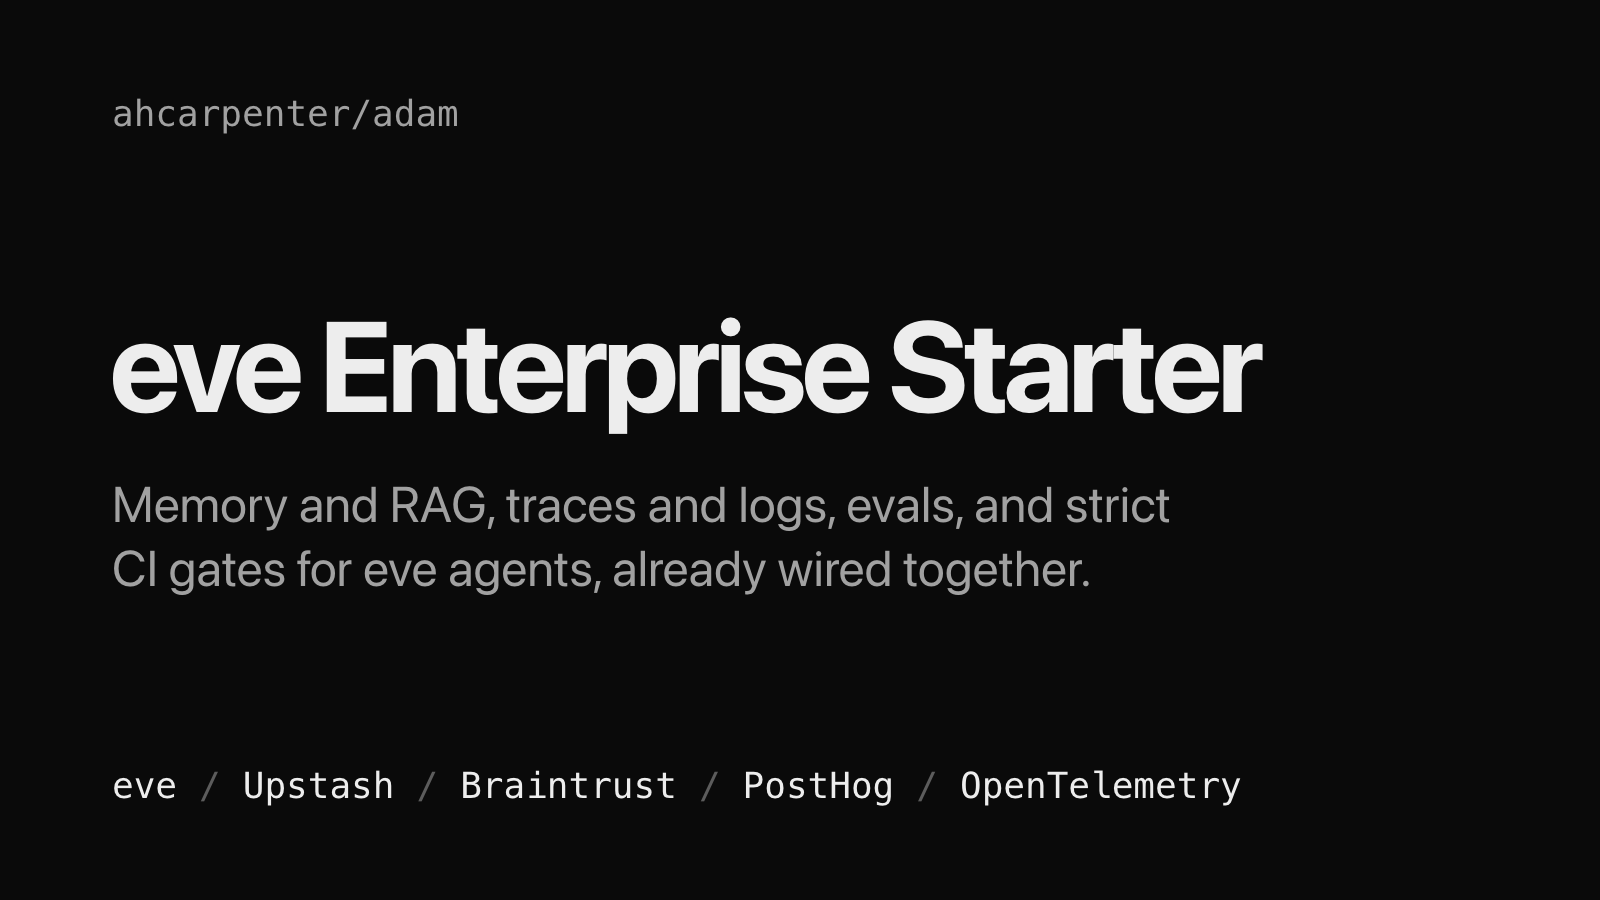
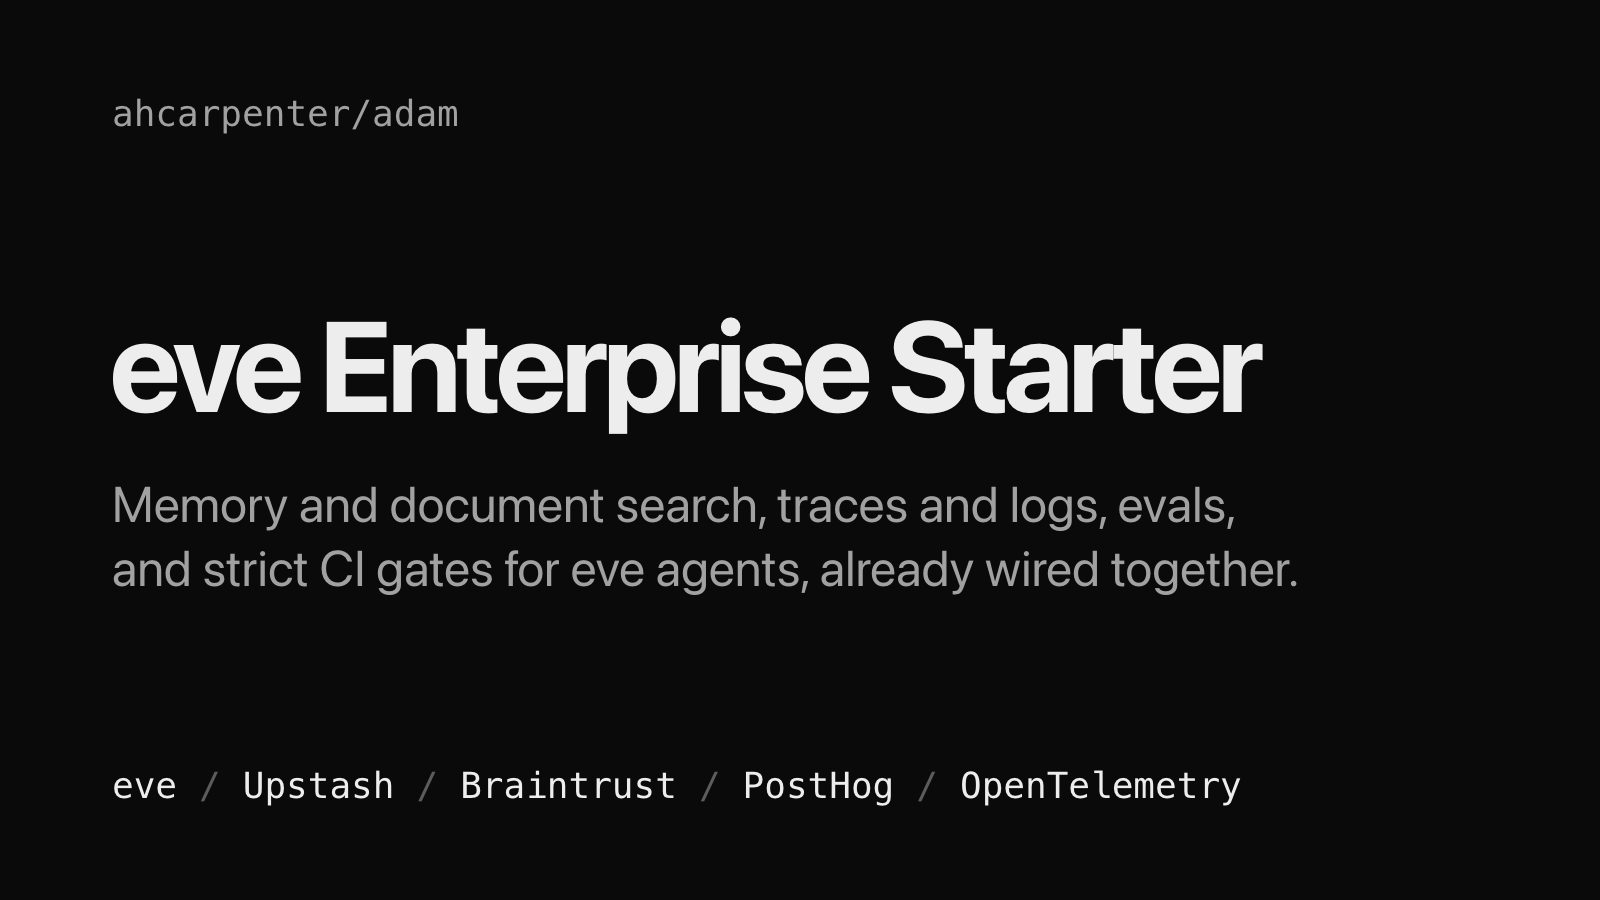
docs: say document search instead of RAG on the thumbnail

Changed region(s): [[0.25, 0.5289, 0.7812, 0.5911], [0.0625, 0.5911, 0.8125, 0.6533]]

diff --git a/docs/assets/thumbnail.html b/docs/assets/thumbnail.html
@@ -84,8 +84,8 @@
     <main>
       <h1>eve Enterprise Starter</h1>
       <p class="pitch">
-        Memory and RAG, traces and logs, evals, and strict CI gates for eve
-        agents, already wired together.
+        Memory and document search, traces and logs, evals, and strict CI gates
+        for eve agents, already wired together.
       </p>
     </main>
     <p class="stack">

diff --git a/README.md b/README.md
@@ -8,7 +8,7 @@
 </p>
 
 <p align="center">
-  <img src="docs/assets/thumbnail.png" alt="eve Enterprise Starter: memory and RAG, traces and logs, evals, and strict CI gates for eve agents, already wired together. Built on eve, Upstash, Braintrust, PostHog, and OpenTelemetry." width="800">
+  <img src="docs/assets/thumbnail.png" alt="eve Enterprise Starter: memory and document search, traces and logs, evals, and strict CI gates for eve agents, already wired together. Built on eve, Upstash, Braintrust, PostHog, and OpenTelemetry." width="800">
 </p>
 
 <p align="center">
